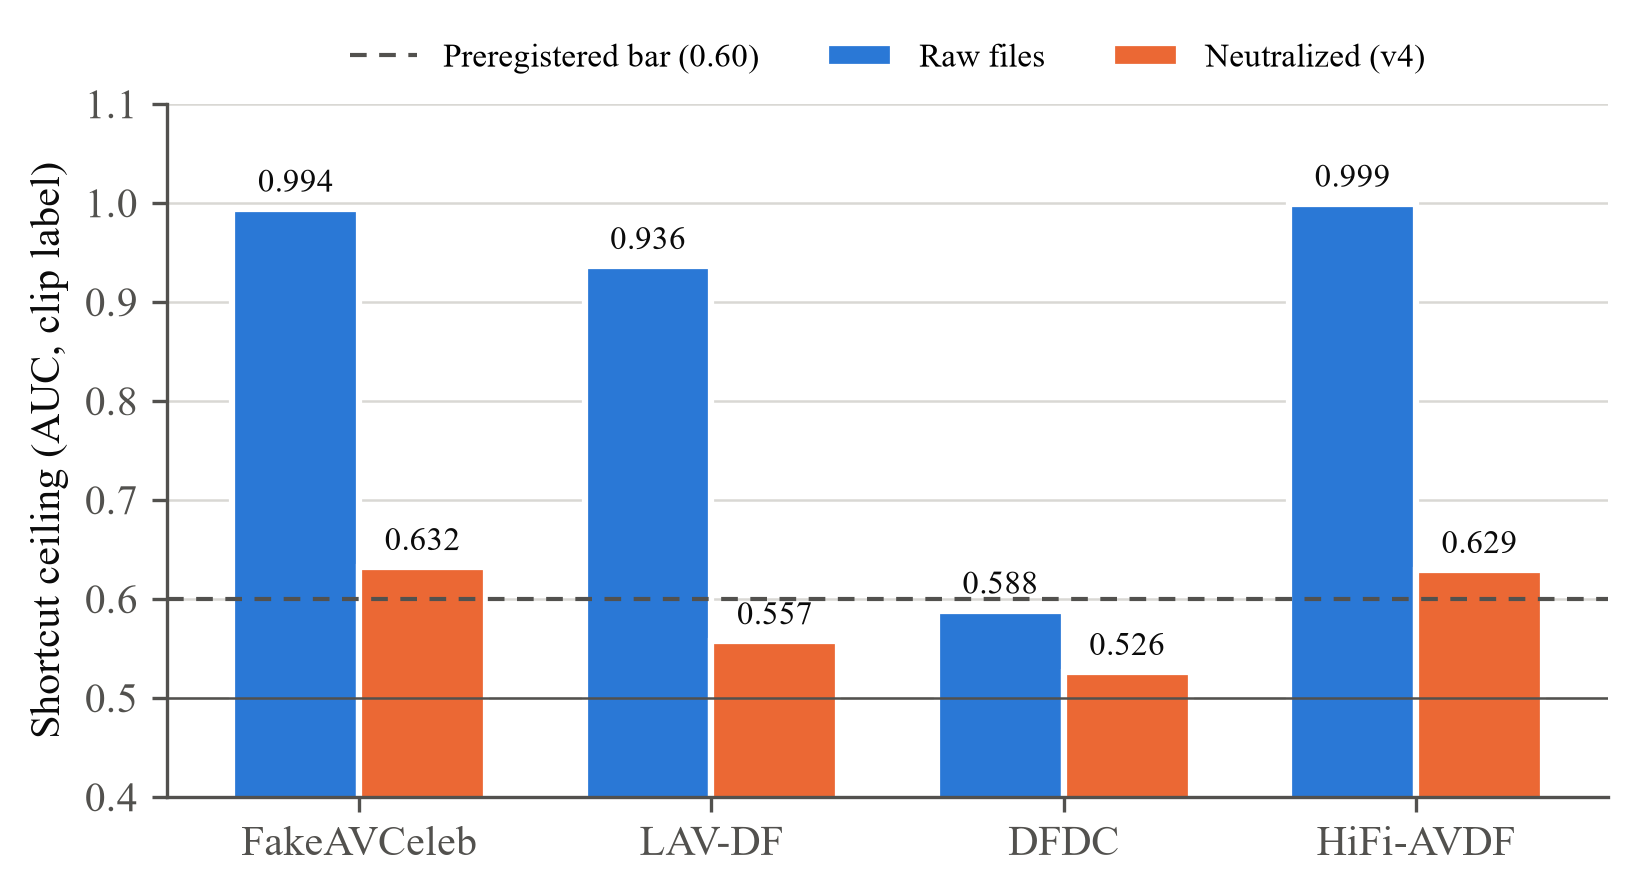
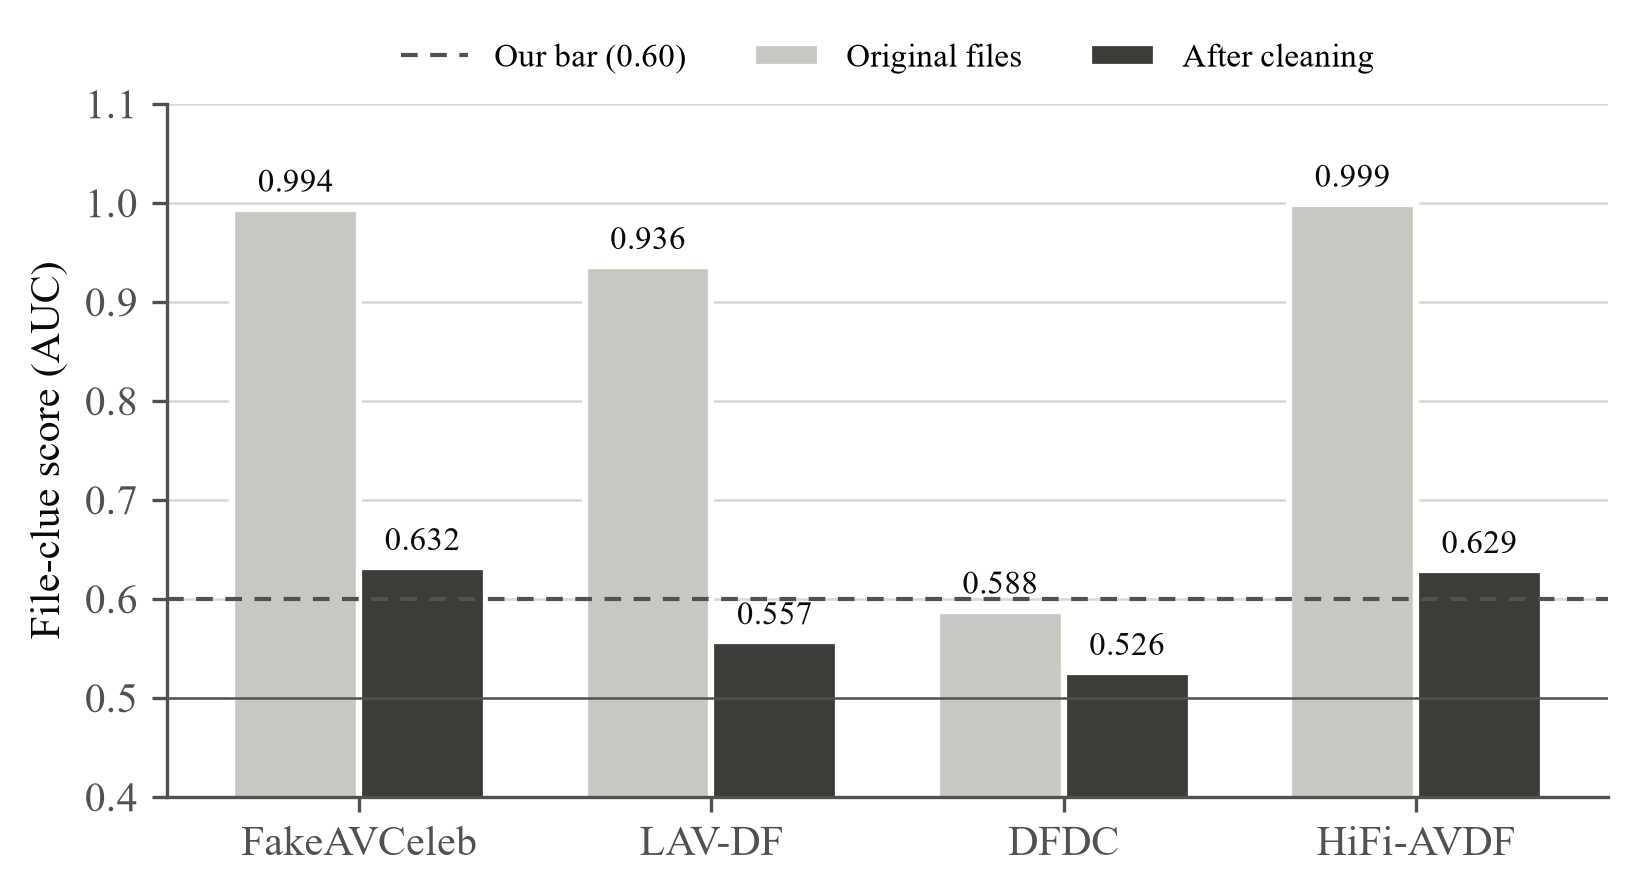
Figures: one style; the stage figure redrawn
Blue, orange and aqua mark the face, voice and lip-sync checks only; greys
mark everything else; labels in plain English. The method figure shows
five stages with the file audit above, and a test fails if any label
comes within 1 mm of its box edge. Value labels keep clear of the 5%
target line.

diff --git a/scripts/make_figures.py b/scripts/make_figures.py
@@ -2,9 +2,10 @@
 
 Every value comes from numbers.json, so a figure agrees with the text that cites
 it. A figure whose numbers do not exist yet is skipped and named, never drawn
-with gaps. Colors: the reference categorical palette (blue, orange, aqua),
-checked with the dataviz validator. Every bar carries its value, which also
-covers aqua's low contrast on white.
+with gaps. One style for all figures: blue, orange and aqua mark the face, voice
+and lip-sync checks and nothing else (checked with the dataviz validator); greys mark
+everything else. Every bar carries its value, which also covers aqua's low contrast
+on white. Labels are plain English.
 
     uv run python scripts/make_figures.py
 """
@@ -22,7 +23,8 @@ from matplotlib.patches import FancyBboxPatch  # noqa: E402
 
 ROOT = Path(__file__).resolve().parents[1]
 OUT = ROOT / "deliverables" / "figures"
-BLUE, ORANGE, AQUA = "#2a78d6", "#eb6834", "#1baf7a"
+BLUE, ORANGE, AQUA = "#2a78d6", "#eb6834", "#1baf7a"     # face, voice and lip-sync checks only
+GREY_LIGHT, GREY_MID, GREY_DARK = "#c9c7c1", "#8a8984", "#3d3c39"   # everything that is not a check
 INK, MUTED, GRID = "#0b0b0b", "#52514e", "#d9d8d4"
 NUMBERS = json.loads((ROOT / "results" / "numbers.json").read_text(encoding="utf-8"))
 
@@ -42,10 +44,14 @@ def have(*keys: str) -> bool:
     return all(k in NUMBERS for k in keys)
 
 
-def _bars(ax, positions, heights, color, width, label):
+def _bars(ax, positions, heights, color, width, label, clear_of=None):
+    """Bars with their values on top. `clear_of`: a reference line the value labels must not sit on."""
     bars = ax.bar(positions, heights, width=width, color=color, label=label, edgecolor="white", linewidth=1.5)
     for bar, height in zip(bars, heights, strict=True):
-        ax.text(bar.get_x() + bar.get_width() / 2, height + 0.01, f"{height:.3f}", ha="center", va="bottom",
+        y = height + 0.01
+        if clear_of is not None and abs(y - clear_of) < 0.03:
+            y = clear_of + 0.012
+        ax.text(bar.get_x() + bar.get_width() / 2, y, f"{height:.3f}", ha="center", va="bottom",
                 fontsize=8, color=INK)
 
 
@@ -64,38 +70,38 @@ def census() -> str | None:
     fig, ax = plt.subplots(figsize=(6.2, 3.0))
     width = 0.36
     raw = [value(f"audit.{k}.raw.clip") for _, k in shown]
-    _bars(ax, [i - width / 2 for i in range(len(shown))], raw, BLUE, width, "Raw files")
+    _bars(ax, [i - width / 2 for i in range(len(shown))], raw, GREY_LIGHT, width, "Original files")
     neutral = [(i, value(f"audit.{k}.neutral.clip")) for i, (_, k) in enumerate(shown) if have(f"audit.{k}.neutral.clip")]
     if neutral:
-        _bars(ax, [i + width / 2 for i, _ in neutral], [v for _, v in neutral], ORANGE, width, "Neutralized (v4)")
-    ax.axhline(0.60, color=MUTED, linestyle=(0, (4, 3)), linewidth=1, label="Preregistered bar (0.60)")
+        _bars(ax, [i + width / 2 for i, _ in neutral], [v for _, v in neutral], GREY_DARK, width, "After cleaning")
+    ax.axhline(0.60, color=MUTED, linestyle=(0, (4, 3)), linewidth=1, label="Our bar (0.60)")
     ax.axhline(0.5, color=MUTED, linewidth=0.6)
     ax.set_xticks(range(len(shown)), [n for n, _ in shown])
-    _finish(ax, "Shortcut ceiling (AUC, clip label)", (0.4, 1.1))
+    _finish(ax, "File-clue score (AUC)", (0.4, 1.1))
     ax.legend(frameon=False, loc="lower center", bbox_to_anchor=(0.5, 1.0), ncol=3, fontsize=8)
     return _save(fig, "fig_census.png")
 
 
 def h1() -> str | None:
-    stages = [("Raw", "audit.fakeavceleb.raw"), ("Neutralizer v1", "audit.fakeavceleb.v1"),
-              ("v4, 600-clip check", "audit.fakeavceleb.v4check"), ("v4, full", "audit.fakeavceleb.neutral")]
+    stages = [("Original files", "audit.fakeavceleb.raw"), ("First cleaning", "audit.fakeavceleb.v1"),
+              ("Final cleaning,\n600-clip check", "audit.fakeavceleb.v4check"), ("Final cleaning", "audit.fakeavceleb.neutral")]
     stages = [(n, k) for n, k in stages if have(f"{k}.clip", f"{k}.video", f"{k}.audio")]
     if not stages:
         return None
     fig, ax = plt.subplots(figsize=(6.2, 3.0))
     width = 0.26
-    for offset, (label, color, field) in enumerate([("Real vs fake", BLUE, "clip"), ("Fake video", ORANGE, "video"),
-                                                    ("Fake audio", AQUA, "audio")]):
+    for offset, (label, color, field) in enumerate([("Real or fake", GREY_DARK, "clip"), ("Fake face", BLUE, "video"),
+                                                    ("Fake voice", ORANGE, "audio")]):
         _bars(ax, [i + (offset - 1) * width for i in range(len(stages))],
               [value(f"{k}.{field}") for _, k in stages], color, width, label)
     ax.axhline(0.60, color=MUTED, linestyle=(0, (4, 3)), linewidth=1)
     ax.set_xticks(range(len(stages)), [n for n, _ in stages])
-    _finish(ax, "Shortcut ceiling on FakeAVCeleb (AUC)", (0.4, 1.1))
+    _finish(ax, "File-clue score on FakeAVCeleb (AUC)", (0.4, 1.1))
     ax.legend(frameon=False, loc="lower center", bbox_to_anchor=(0.5, 1.0), ncol=3, fontsize=8)
     return _save(fig, "fig_h1.png")
 
 
-METHOD_NAMES = {"rtvc": "Voice cloning (rtvc)", "wav2lip": "Wav2Lip", "faceswap-wav2lip": "FaceSwap + Wav2Lip",
+METHOD_NAMES = {"rtvc": "Voice cloning", "wav2lip": "Wav2Lip", "faceswap-wav2lip": "FaceSwap + Wav2Lip",
                 "fsgan-wav2lip": "FSGAN + Wav2Lip", "fsgan": "FSGAN (face only)", "faceswap": "FaceSwap (face only)"}
 
 
@@ -107,14 +113,14 @@ def sync_methods() -> str | None:
     methods.sort(key=lambda m: means[m])
     fig, ax = plt.subplots(figsize=(6.2, 3.0))
     for i, m in enumerate(methods):
-        ax.barh(i, means[m], color=BLUE, height=0.55, edgecolor="white", linewidth=1.5)
+        ax.barh(i, means[m], color=AQUA, height=0.55, edgecolor="white", linewidth=1.5)
         seeds = [value(f"sync.test.seed{s}.method.{m}") for s in (17, 29, 43)]
         ax.scatter(seeds, [i] * 3, s=14, color=INK, zorder=3, label="Single seed" if i == 0 else None)
         ax.text(max(seeds) + 0.012, i, f"{means[m]:.3f}", va="center", fontsize=8, color=INK)
     ax.axvline(0.5, color=MUTED, linewidth=0.6)
     ax.set_yticks(range(len(methods)), [METHOD_NAMES[m] for m in methods])
     ax.set_xlim(0.4, 1.02)
-    ax.set_xlabel("Sync path ROC-AUC on neutral FakeAVCeleb test (bar: mean of 3 seeds)")
+    ax.set_xlabel("Lip-sync check (AUC) on the cleaned FakeAVCeleb test set; bar: mean of 3 seeds")
     ax.xaxis.grid(True, color=GRID, linewidth=0.6)
     ax.set_axisbelow(True)
     ax.legend(frameon=False, loc="lower right", fontsize=8)
@@ -122,14 +128,14 @@ def sync_methods() -> str | None:
 
 
 def cross_corpus() -> str | None:
-    targets = [("FakeAVCeleb\n(in-domain)", "test"), ("LAV-DF\n(file label)", "lavdf-test"),
+    targets = [("FakeAVCeleb\n(trained on)", "test"), ("LAV-DF\n(file label)", "lavdf-test"),
                ("LAV-DF\n(window label)", "lavdf-window"), ("DFDC", "dfdc"), ("HiFi-AVDF", "hifiavdf")]
     targets = [(n, t) for n, t in targets if have(*(f"sync.{t}.seed{s}.auc" for s in (17, 29, 43)))]
     if len(targets) < 2:
         return None
     fig, ax = plt.subplots(figsize=(6.6, 3.0))
     means = [sum(value(f"sync.{t}.seed{s}.auc") for s in (17, 29, 43)) / 3 for _, t in targets]
-    ax.bar(range(len(targets)), means, width=0.55, color=BLUE, edgecolor="white", linewidth=1.5)
+    ax.bar(range(len(targets)), means, width=0.55, color=AQUA, edgecolor="white", linewidth=1.5)
     for i, (_, t) in enumerate(targets):
         seeds = [value(f"sync.{t}.seed{s}.auc") for s in (17, 29, 43)]
         ax.scatter([i] * 3, seeds, s=14, color=INK, zorder=3)
@@ -137,14 +143,15 @@ def cross_corpus() -> str | None:
         ax.text(i, max(seeds) + 0.02, f"{means[i]:.3f}", ha="center", va="bottom", fontsize=8, color=INK)
     ax.axhline(0.5, color=MUTED, linewidth=0.6)
     ax.set_xticks(range(len(targets)), [n for n, _ in targets])
-    _finish(ax, "Sync path ROC-AUC (dots: single seeds)", (0.3, 1.05))
+    _finish(ax, "Lip-sync check (AUC; dots: single seeds)", (0.3, 1.05))
     return _save(fig, "fig_cross_corpus.png")
 
 
 def h4() -> str | None:
     targets = [("LAV-DF, file", "lavdf-test"), ("LAV-DF, window", "lavdf-window"), ("HiFi-AVDF", "hifiavdf")]
-    rules = [("Source threshold", "source_validation", BLUE), ("Real-only conformal", "conformal_real_only", ORANGE),
-             ("Real-only umbrella", "umbrella_real_only", AQUA)]
+    rules = [("Threshold from training", "source_validation", GREY_LIGHT),
+             ("From 200 real clips", "conformal_real_only", GREY_MID),
+             ("Stricter, from 200 real clips", "umbrella_real_only", GREY_DARK)]
     targets = [(n, t) for n, t in targets if have(*(f"h4.{t}-seed{s}.{r}.fpr" for s in (17, 29, 43) for _, r, _ in rules))]
     if not targets:
         return None
@@ -152,28 +159,95 @@ def h4() -> str | None:
     width = 0.26
     for offset, (label, rule, color) in enumerate(rules):
         heights = [sum(value(f"h4.{t}-seed{s}.{rule}.fpr") for s in (17, 29, 43)) / 3 for _, t in targets]
-        _bars(ax, [i + (offset - 1) * width for i in range(len(targets))], heights, color, width, label)
-    ax.axhline(0.05, color=MUTED, linestyle=(0, (4, 3)), linewidth=1, label="Target alpha 0.05")
+        _bars(ax, [i + (offset - 1) * width for i in range(len(targets))], heights, color, width, label,
+              clear_of=0.05)
+    ax.axhline(0.05, color=MUTED, linestyle=(0, (4, 3)), linewidth=1, label="Target: 5%")
     ax.set_xticks(range(len(targets)), [n for n, _ in targets])
-    _finish(ax, "False-positive rate on real clips\n(mean of 3 seeds)", (0, 0.6))
+    _finish(ax, "Real clips wrongly flagged\n(mean of 3 seeds)", (0, 0.6))
     ax.legend(frameon=False, loc="lower center", bbox_to_anchor=(0.5, 1.0), ncol=4, fontsize=8)
     return _save(fig, "fig_h4.png")
 
 
+def overflowing(fig, pairs) -> list[str]:
+    """The labels whose drawn text leaves the box they belong to, as drawn in `fig`."""
+    fig.canvas.draw()
+    renderer = fig.canvas.get_renderer()
+    out = []
+    for text, patch in pairs:
+        inner, outer = text.get_window_extent(renderer), patch.get_window_extent(renderer)
+        pad = 0.04 * fig.dpi       # 1 mm of breathing room inside the box border
+        if inner.x0 < outer.x0 + pad or inner.x1 > outer.x1 - pad or inner.y0 < outer.y0 + pad or inner.y1 > outer.y1 - pad:
+            out.append(" ".join(text.get_text().split()))
+    return out
+
+
 def pipeline() -> str:
-    steps = ["Clip", "Neutralize (v4)\none codec, 3 s,\nlevel, dither", "Mouth crops\nand 16 kHz\naudio",
-             "Frozen\nAV-HuBERT\nlips / audio", "Alignment\nhead (real\nclips only)", "Threshold:\nvalidation or\nreal-only"]
-    fig, ax = plt.subplots(figsize=(8.4, 1.7))
-    ax.set_xlim(0, len(steps))
-    ax.set_ylim(0, 1)
-    ax.axis("off")
-    for i, text in enumerate(steps):
-        ax.add_patch(FancyBboxPatch((i + 0.06, 0.15), 0.88, 0.7, boxstyle="round,pad=0.02,rounding_size=0.06",
-                                    facecolor="#eef4fc", edgecolor=BLUE, linewidth=1.2))
-        ax.text(i + 0.5, 0.5, text, ha="center", va="center", fontsize=7.5, color=INK, linespacing=1.3)
-        if i:
-            ax.annotate("", xy=(i + 0.06, 0.5), xytext=(i - 0.06, 0.5), arrowprops={"arrowstyle": "->", "color": MUTED})
+    fig, pairs = draw_pipeline()
+    spilled = overflowing(fig, pairs)
+    if spilled:
+        raise ValueError(f"method figure: text leaves its box: {spilled}")
     return _save(fig, "fig_pipeline.png")
+
+
+def draw_pipeline():
+    """The method in five stages, with the file audit as the evaluation step above them.
+
+    Drawn to read as a designed figure: one grid, thin strokes, short plain labels (what each
+    stage does, the model name small below), colour only where it carries identity (face,
+    voice and lip sync keep the colours they have in the result figures).
+    """
+    raw, clean = value("audit.fakeavceleb.raw.clip"), value("audit.fakeavceleb.neutral.clip")
+    fig, ax = plt.subplots(figsize=(7.16, 3.6))
+    ax.set_xlim(0, 100)
+    ax.set_ylim(-6, 47)
+    ax.axis("off")
+    edge = "#8a8984"
+    pairs = []
+
+    def box(x0, x1, y0, y1, title, detail, face="white", stroke=edge, dashed=False):
+        patch = FancyBboxPatch((x0, y0), x1 - x0, y1 - y0, boxstyle="round,pad=0,rounding_size=1.2",
+                               facecolor=face, edgecolor=stroke, linewidth=0.9,
+                               linestyle=(0, (3, 2)) if dashed else "solid")
+        ax.add_patch(patch)
+        cx, cy = (x0 + x1) / 2, (y0 + y1) / 2
+        pairs.append((ax.text(cx, cy + (1.6 if detail else 0), title, ha="center", va="center", fontsize=8.5,
+                              fontweight="bold", color=INK), patch))
+        if detail:
+            pairs.append((ax.text(cx, cy - 2.1, detail, ha="center", va="center", fontsize=6.8, color=MUTED,
+                                  linespacing=1.25), patch))
+
+    def arrow(x0, y0, x1, y1):
+        ax.annotate("", xy=(x1, y1), xytext=(x0, y0),
+                    arrowprops={"arrowstyle": "-|>", "color": MUTED, "lw": 0.8, "mutation_scale": 7,
+                                "shrinkA": 0, "shrinkB": 0})
+
+    cols = {"input": (0, 11), "clean": (14.5, 37), "checks": (41, 66), "compare": (70.5, 84), "answer": (87.5, 100)}
+    mid, half = 18, 7
+    box(*cols["input"], mid - half, mid + half, "Video", "one person\nspeaking")
+    box(*cols["clean"], mid - half, mid + half, "Clean like an upload",
+        "re-encode, keep 3 s of\nspeech, level the volume")
+    checks = [("Face", "edited faces\nEfficientNet-B0", "#e8f0fb", BLUE, 31),
+              ("Voice", "synthetic speech\nWav2Vec2", "#fdeee7", ORANGE, 18),
+              ("Lip sync", "do lips match the words?\nAV-HuBERT, real videos only", "#e3f5ee", AQUA, 5)]
+    for title, detail, face, stroke, cy in checks:
+        box(*cols["checks"], cy - 5, cy + 5, title, detail, face=face, stroke=stroke)
+        arrow(cols["clean"][1], mid, cols["checks"][0], cy)
+        arrow(cols["checks"][1], cy, cols["compare"][0], mid)
+    box(*cols["compare"], mid - half, mid + half, "Compare", "with scores of\nreal videos")
+    box(*cols["answer"], mid - half, mid + half, "Answer", "signs, can't tell,\nor no signs")
+    arrow(cols["input"][1], mid, cols["clean"][0], mid)
+    arrow(cols["compare"][1], mid, cols["answer"][0], mid)
+
+    # The file audit: an evaluation step, run on the raw and on the cleaned files.
+    box(0, 66, 37, 46, "File audit (evaluation only)",
+        f"what file details alone reveal: {raw:.3f} on the original files, {clean:.3f} after cleaning")
+    for x in (5.5, 25.75):
+        arrow(x, mid + half, x, 37)
+
+    for (x0, x1), label in zip(cols.values(), ["1  Input", "2  Clean", "3  Check", "4  Compare", "5  Answer"],
+                               strict=True):
+        ax.text((x0 + x1) / 2, -4.5, label, ha="center", va="center", fontsize=7.5, color=MUTED)
+    return fig, pairs
 
 
 def _save(fig, name: str) -> str:
@@ -185,8 +259,8 @@ def _save(fig, name: str) -> str:
 
 def h2() -> str | None:
     """Fusion minus visual-only AUC per target: the 3-seed mean with its interval, and each seed as a dot."""
-    targets = [("FakeAVCeleb, strict", "test-identity-strict"), ("DFDC", "dfdc"), ("LAV-DF, window label", "lavdf-window"),
-               ("HiFi-AVDF (reported)", "hifiavdf")]
+    targets = [("FakeAVCeleb (unseen people)", "test-identity-strict"), ("DFDC", "dfdc"), ("LAV-DF", "lavdf-window"),
+               ("HiFi-AVDF (outside the test)", "hifiavdf")]
     targets = [(n, t) for n, t in targets if have(f"h2.{t}.estimate", f"h2.{t}.lower", f"h2.{t}.upper")]
     if not targets:
         return None
@@ -194,14 +268,15 @@ def h2() -> str | None:
     for i, (_, t) in enumerate(targets):
         y = len(targets) - 1 - i
         est, lo, hi = value(f"h2.{t}.estimate"), value(f"h2.{t}.lower"), value(f"h2.{t}.upper")
-        ax.plot([lo, hi], [y, y], color=BLUE, linewidth=2, solid_capstyle="round")
-        ax.scatter([est], [y], s=36, color=BLUE, zorder=3, edgecolor="white", linewidth=1.5)
+        ax.plot([lo, hi], [y, y], color=GREY_DARK, linewidth=2, solid_capstyle="round")
+        ax.scatter([est], [y], s=36, color=GREY_DARK, zorder=3, edgecolor="white", linewidth=1.5)
         seeds = [value(f"h2.{t}.seed{s}") for s in (17, 29, 43) if have(f"h2.{t}.seed{s}")]
         ax.scatter(seeds, [y + 0.22] * len(seeds), s=10, color=INK, zorder=3)
         ax.text(hi, y, f"  {est:+.3f}", va="center", fontsize=8, color=INK)
     ax.axvline(0, color=MUTED, linewidth=0.8)
     ax.set_yticks(range(len(targets)), [n for n, _ in reversed(targets)])
-    ax.set_xlabel("AUC(fusion) - AUC(visual), mean of 3 seeds with 95% interval (dots: single seeds)")
+    ax.set_xlabel("Gain from combining the three checks over the face check alone (AUC)\n"
+                  "mean of 3 seeds with its 95% interval; dots: single seeds")
     ax.xaxis.grid(True, color=GRID, linewidth=0.6)
     ax.set_axisbelow(True)
     return _save(fig, "fig_h2.png")

diff --git a/tests/test_make_figures.py b/tests/test_make_figures.py
@@ -1,0 +1,16 @@
+"""The method figure: every label stays inside its box."""
+
+import importlib.util
+import sys
+from pathlib import Path
+
+spec = importlib.util.spec_from_file_location("make_figures", Path(__file__).parents[1] / "scripts" / "make_figures.py")
+figures = importlib.util.module_from_spec(spec)
+sys.modules["make_figures"] = figures
+spec.loader.exec_module(figures)
+
+
+def test_no_label_of_the_method_figure_leaves_its_box() -> None:
+    fig, pairs = figures.draw_pipeline()
+    assert pairs, "the figure registers its labels with their boxes"
+    assert figures.overflowing(fig, pairs) == []
